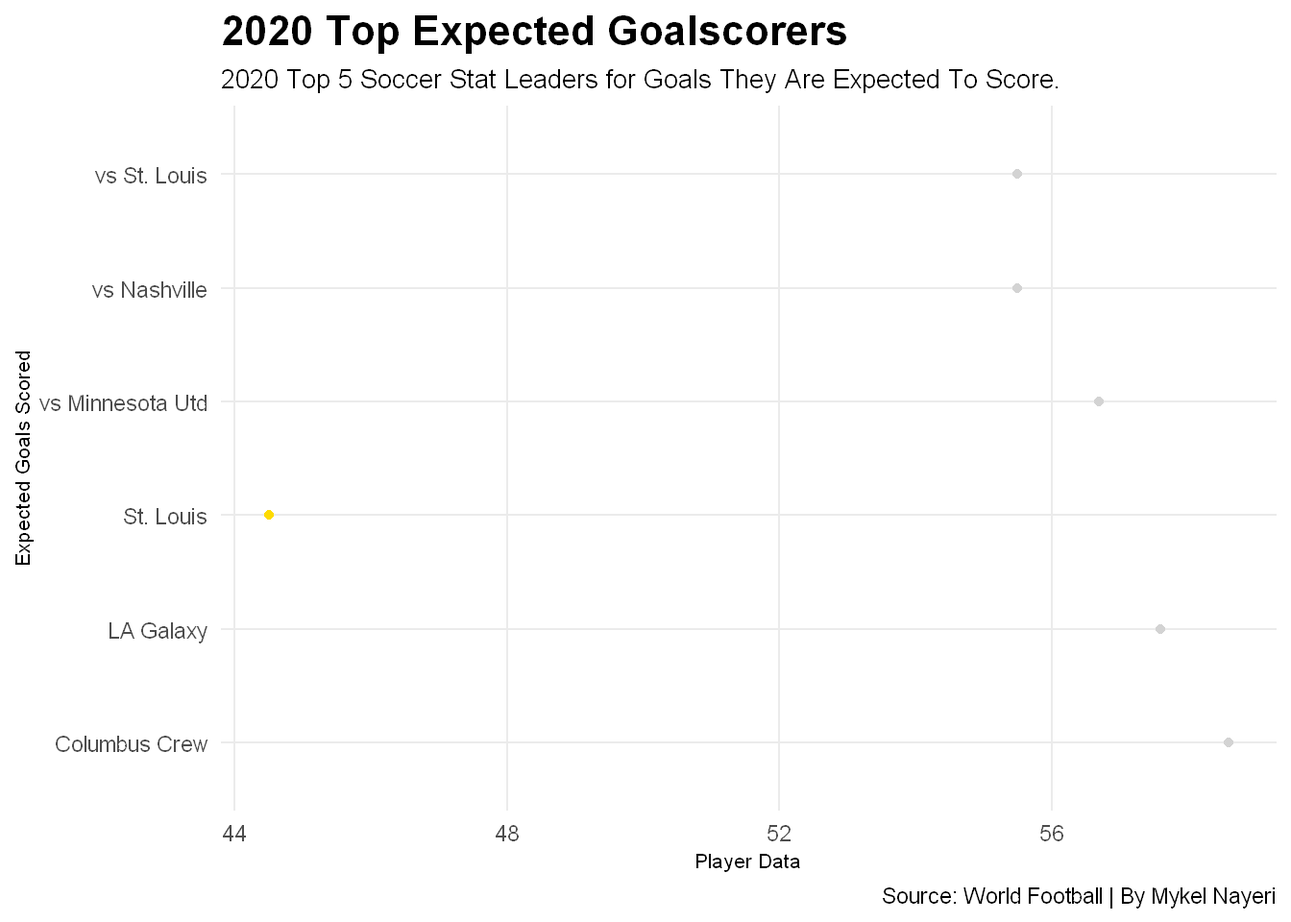
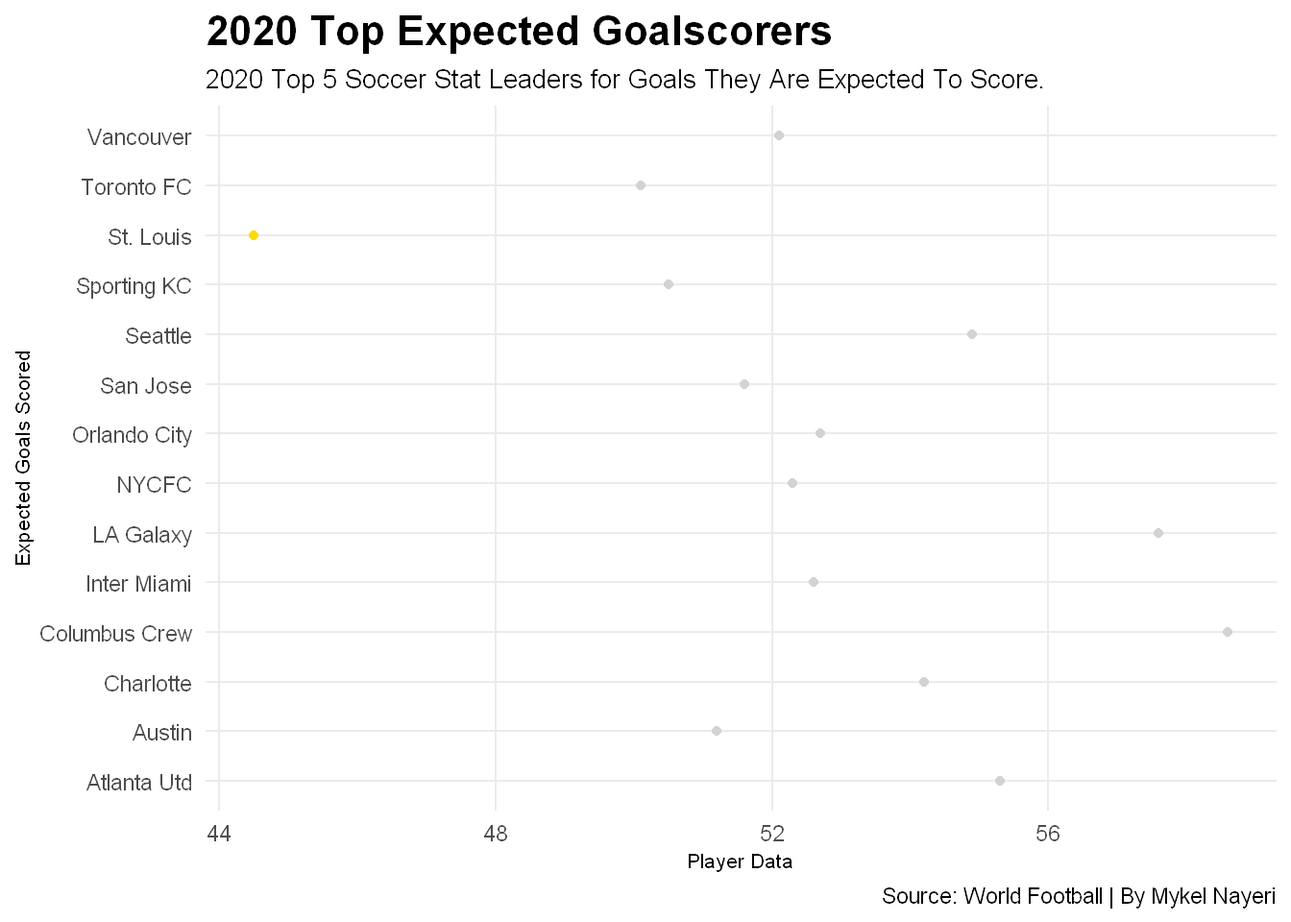
2.2

diff --git a/posts/is-st-louis-city-sc-the-best-expansion-franchise-ever/index.html b/posts/is-st-louis-city-sc-the-best-expansion-franchise-ever/index.html
@@ -209,68 +209,32 @@ code span.wa { color: #60a0b0; font-weight: bold; font-style: italic; } /* Warni
 <div class="cell">
 <details>
 <summary>Code</summary>
-<div class="sourceCode cell-code" id="cb1"><pre class="sourceCode r code-with-copy"><code class="sourceCode r"><span id="cb1-1"><a href="#cb1-1" aria-hidden="true" tabindex="-1"></a><span class="fu">library</span>(tidyverse)</span></code><button title="Copy to Clipboard" class="code-copy-button"><i class="bi"></i></button></pre></div>
-</details>
-<div class="cell-output cell-output-stderr">
-<pre><code>── Attaching packages ─────────────────────────────────────── tidyverse 1.3.2 ──
-✔ ggplot2 3.4.0      ✔ purrr   1.0.1 
-✔ tibble  3.1.8      ✔ dplyr   1.0.10
-✔ tidyr   1.2.1      ✔ stringr 1.5.0 
-✔ readr   2.1.3      ✔ forcats 0.5.2 
-── Conflicts ────────────────────────────────────────── tidyverse_conflicts() ──
-✖ dplyr::filter() masks stats::filter()
-✖ dplyr::lag()    masks stats::lag()</code></pre>
-</div>
-<details>
-<summary>Code</summary>
-<div class="sourceCode cell-code" id="cb3"><pre class="sourceCode r code-with-copy"><code class="sourceCode r"><span id="cb3-1"><a href="#cb3-1" aria-hidden="true" tabindex="-1"></a><span class="fu">library</span>(cowplot)</span>
-<span id="cb3-2"><a href="#cb3-2" aria-hidden="true" tabindex="-1"></a><span class="fu">library</span>(ggalt)</span></code><button title="Copy to Clipboard" class="code-copy-button"><i class="bi"></i></button></pre></div>
-</details>
-<div class="cell-output cell-output-stderr">
-<pre><code>Registered S3 methods overwritten by 'ggalt':
-  method                  from   
-  grid.draw.absoluteGrob  ggplot2
-  grobHeight.absoluteGrob ggplot2
-  grobWidth.absoluteGrob  ggplot2
-  grobX.absoluteGrob      ggplot2
-  grobY.absoluteGrob      ggplot2</code></pre>
-</div>
-<details>
-<summary>Code</summary>
-<div class="sourceCode cell-code" id="cb5"><pre class="sourceCode r code-with-copy"><code class="sourceCode r"><span id="cb5-1"><a href="#cb5-1" aria-hidden="true" tabindex="-1"></a><span class="fu">library</span>(ggtext)</span>
-<span id="cb5-2"><a href="#cb5-2" aria-hidden="true" tabindex="-1"></a><span class="fu">library</span>(ggbeeswarm)</span></code><button title="Copy to Clipboard" class="code-copy-button"><i class="bi"></i></button></pre></div>
-</details>
-<div class="cell-output cell-output-stderr">
-<pre><code>Warning: package 'ggbeeswarm' was built under R version 4.2.3</code></pre>
-</div>
-<details>
-<summary>Code</summary>
-<div class="sourceCode cell-code" id="cb7"><pre class="sourceCode r code-with-copy"><code class="sourceCode r"><span id="cb7-1"><a href="#cb7-1" aria-hidden="true" tabindex="-1"></a><span class="fu">library</span>(ggrepel)</span>
-<span id="cb7-2"><a href="#cb7-2" aria-hidden="true" tabindex="-1"></a><span class="fu">library</span>(worldfootballR)</span></code><button title="Copy to Clipboard" class="code-copy-button"><i class="bi"></i></button></pre></div>
-</details>
-<div class="cell-output cell-output-stderr">
-<pre><code>Warning: package 'worldfootballR' was built under R version 4.2.3</code></pre>
-</div>
-<details>
-<summary>Code</summary>
-<div class="sourceCode cell-code" id="cb9"><pre class="sourceCode r code-with-copy"><code class="sourceCode r"><span id="cb9-1"><a href="#cb9-1" aria-hidden="true" tabindex="-1"></a>mls_shooting <span class="ot">&lt;-</span> <span class="fu">fb_season_team_stats</span>(<span class="at">country =</span> <span class="st">"USA"</span>, <span class="at">gender =</span> <span class="st">"M"</span>, <span class="at">season_end_year =</span> <span class="st">"2023"</span>, <span class="at">tier =</span> <span class="st">"1st"</span>, <span class="at">stat_type =</span> <span class="st">"shooting"</span>)</span>
-<span id="cb9-2"><a href="#cb9-2" aria-hidden="true" tabindex="-1"></a>goals <span class="ot">&lt;-</span> mls_shooting <span class="sc">%&gt;%</span></span>
-<span id="cb9-3"><a href="#cb9-3" aria-hidden="true" tabindex="-1"></a>  <span class="fu">filter</span>(Gls_Standard <span class="sc">&gt;</span> <span class="dv">12</span>)</span>
-<span id="cb9-4"><a href="#cb9-4" aria-hidden="true" tabindex="-1"></a>  STL <span class="ot">&lt;-</span> mls_shooting <span class="sc">%&gt;%</span> <span class="fu">filter</span>(Squad <span class="sc">==</span> <span class="st">"St. Louis"</span>)</span>
-<span id="cb9-5"><a href="#cb9-5" aria-hidden="true" tabindex="-1"></a>  <span class="fu">ggplot</span>() <span class="sc">+</span></span>
-<span id="cb9-6"><a href="#cb9-6" aria-hidden="true" tabindex="-1"></a>  <span class="fu">geom_beeswarm</span>(<span class="at">data=</span>goals, <span class="fu">aes</span>(<span class="at">x=</span>Gls_Standard, <span class="at">y=</span>Squad), <span class="at">size =</span> <span class="dv">3</span>, <span class="at">color=</span><span class="st">"Black"</span>) <span class="sc">+</span></span>
-<span id="cb9-7"><a href="#cb9-7" aria-hidden="true" tabindex="-1"></a>  <span class="fu">geom_beeswarm</span>(<span class="at">data=</span>STL, <span class="fu">aes</span>(<span class="at">x=</span>Gls_Standard, <span class="at">y=</span>Squad), <span class="at">size =</span> <span class="dv">3</span>, <span class="at">color=</span><span class="st">"#E0004D"</span>) <span class="sc">+</span></span>
-<span id="cb9-8"><a href="#cb9-8" aria-hidden="true" tabindex="-1"></a>  <span class="fu">geom_text</span>(<span class="at">data=</span>STL, <span class="fu">aes</span>(<span class="at">x=</span><span class="dv">33</span>, <span class="at">y=</span><span class="fl">1.5</span>, <span class="at">label=</span>Gls_Standard)) <span class="sc">+</span></span>
-<span id="cb9-9"><a href="#cb9-9" aria-hidden="true" tabindex="-1"></a>  <span class="co">#geom_text(data=STL, aes(x=Gls_Standard, y=Squad, label=Squad)) +</span></span>
-<span id="cb9-10"><a href="#cb9-10" aria-hidden="true" tabindex="-1"></a>  <span class="co">#geom_encircle(data=STL, aes(x=Gls_Standard, y=Squad), s_shape=.1, expand=.01, colour="Purple")+  </span></span>
-<span id="cb9-11"><a href="#cb9-11" aria-hidden="true" tabindex="-1"></a>  <span class="fu">labs</span>(<span class="at">x=</span><span class="st">"Squad"</span>, <span class="at">y=</span><span class="st">"Goals Scored"</span>, <span class="at">title=</span><span class="st">"2020 Top Goalscorers"</span>, <span class="at">subtitle=</span><span class="st">"Top 5 Goalscorers During The COVID Season"</span>, <span class="at">caption=</span><span class="st">"Source: World Football | By Mykel Nayeri"</span>) <span class="sc">+</span> </span>
-<span id="cb9-12"><a href="#cb9-12" aria-hidden="true" tabindex="-1"></a>  <span class="fu">theme_minimal</span>() <span class="sc">+</span> </span>
-<span id="cb9-13"><a href="#cb9-13" aria-hidden="true" tabindex="-1"></a>  <span class="fu">theme</span>(</span>
-<span id="cb9-14"><a href="#cb9-14" aria-hidden="true" tabindex="-1"></a>    <span class="at">plot.title =</span> <span class="fu">element_text</span>(<span class="at">size =</span> <span class="dv">16</span>, <span class="at">face =</span> <span class="st">"bold"</span>),</span>
-<span id="cb9-15"><a href="#cb9-15" aria-hidden="true" tabindex="-1"></a>    <span class="at">axis.title =</span> <span class="fu">element_text</span>(<span class="at">size =</span> <span class="dv">8</span>), </span>
-<span id="cb9-16"><a href="#cb9-16" aria-hidden="true" tabindex="-1"></a>    <span class="at">plot.subtitle =</span> <span class="fu">element_text</span>(<span class="at">size=</span><span class="dv">10</span>), </span>
-<span id="cb9-17"><a href="#cb9-17" aria-hidden="true" tabindex="-1"></a>    <span class="at">panel.grid.minor =</span> <span class="fu">element_blank</span>()</span>
-<span id="cb9-18"><a href="#cb9-18" aria-hidden="true" tabindex="-1"></a>    )</span></code><button title="Copy to Clipboard" class="code-copy-button"><i class="bi"></i></button></pre></div>
+<div class="sourceCode cell-code" id="cb1"><pre class="sourceCode r code-with-copy"><code class="sourceCode r"><span id="cb1-1"><a href="#cb1-1" aria-hidden="true" tabindex="-1"></a><span class="fu">library</span>(tidyverse)</span>
+<span id="cb1-2"><a href="#cb1-2" aria-hidden="true" tabindex="-1"></a><span class="fu">library</span>(cowplot)</span>
+<span id="cb1-3"><a href="#cb1-3" aria-hidden="true" tabindex="-1"></a><span class="fu">library</span>(ggalt)</span>
+<span id="cb1-4"><a href="#cb1-4" aria-hidden="true" tabindex="-1"></a><span class="fu">library</span>(ggtext)</span>
+<span id="cb1-5"><a href="#cb1-5" aria-hidden="true" tabindex="-1"></a><span class="fu">library</span>(ggbeeswarm)</span>
+<span id="cb1-6"><a href="#cb1-6" aria-hidden="true" tabindex="-1"></a><span class="fu">library</span>(ggrepel)</span>
+<span id="cb1-7"><a href="#cb1-7" aria-hidden="true" tabindex="-1"></a><span class="fu">library</span>(worldfootballR)</span>
+<span id="cb1-8"><a href="#cb1-8" aria-hidden="true" tabindex="-1"></a>mls_shooting <span class="ot">&lt;-</span> <span class="fu">fb_season_team_stats</span>(<span class="at">country =</span> <span class="st">"USA"</span>, <span class="at">gender =</span> <span class="st">"M"</span>, <span class="at">season_end_year =</span> <span class="st">"2023"</span>, <span class="at">tier =</span> <span class="st">"1st"</span>, <span class="at">stat_type =</span> <span class="st">"shooting"</span>)</span>
+<span id="cb1-9"><a href="#cb1-9" aria-hidden="true" tabindex="-1"></a>goals <span class="ot">&lt;-</span> mls_shooting <span class="sc">%&gt;%</span></span>
+<span id="cb1-10"><a href="#cb1-10" aria-hidden="true" tabindex="-1"></a><span class="fu">filter</span>(Team_or_Opponent <span class="sc">==</span> <span class="st">"team"</span>, Gls_Standard <span class="sc">&gt;</span> <span class="dv">10</span>)</span>
+<span id="cb1-11"><a href="#cb1-11" aria-hidden="true" tabindex="-1"></a>  STL <span class="ot">&lt;-</span> mls_shooting <span class="sc">%&gt;%</span> <span class="fu">filter</span>(Squad <span class="sc">==</span> <span class="st">"St. Louis"</span>)</span>
+<span id="cb1-12"><a href="#cb1-12" aria-hidden="true" tabindex="-1"></a><span class="fu">ggplot</span>() <span class="sc">+</span> </span>
+<span id="cb1-13"><a href="#cb1-13" aria-hidden="true" tabindex="-1"></a>  <span class="fu">geom_lollipop</span>(<span class="at">data=</span>goals, <span class="fu">aes</span>(<span class="at">x=</span>Gls_Standard, <span class="at">y=</span>Squad), <span class="at">horizontal =</span> <span class="cn">TRUE</span>) <span class="sc">+</span></span>
+<span id="cb1-14"><a href="#cb1-14" aria-hidden="true" tabindex="-1"></a>  <span class="fu">geom_lollipop</span>(<span class="at">data=</span>STL, <span class="fu">aes</span>(<span class="at">x=</span>Gls_Standard, <span class="at">y=</span>Squad), <span class="at">horizontal =</span> <span class="cn">TRUE</span>,</span>
+<span id="cb1-15"><a href="#cb1-15" aria-hidden="true" tabindex="-1"></a>  <span class="at">size =</span> <span class="dv">1</span>, <span class="at">color=</span><span class="st">"#E0004D"</span>)<span class="sc">+</span></span>
+<span id="cb1-16"><a href="#cb1-16" aria-hidden="true" tabindex="-1"></a>  <span class="fu">geom_text</span>(<span class="at">data=</span>STL, <span class="fu">aes</span>(<span class="at">x=</span><span class="dv">33</span>, <span class="at">y=</span><span class="fl">1.5</span>, <span class="at">label=</span><span class="st">"hello"</span>)) <span class="sc">+</span></span>
+<span id="cb1-17"><a href="#cb1-17" aria-hidden="true" tabindex="-1"></a>  <span class="co">#geom_text(data=STL, aes(x=Gls_Standard, y=Squad, label=Squad)) +</span></span>
+<span id="cb1-18"><a href="#cb1-18" aria-hidden="true" tabindex="-1"></a>  <span class="co">#geom_encircle(data=STL, aes(x=Gls_Standard, y=Squad), s_shape=.1, expand=.01, colour="Purple")+  </span></span>
+<span id="cb1-19"><a href="#cb1-19" aria-hidden="true" tabindex="-1"></a>  <span class="fu">labs</span>(<span class="at">x=</span><span class="st">"Squad"</span>, <span class="at">y=</span><span class="st">"Goals Scored"</span>, <span class="at">title=</span><span class="st">"2020 Top Goalscorers"</span>, <span class="at">subtitle=</span><span class="st">"Top 5 Goalscorers During The COVID Season"</span>, <span class="at">caption=</span><span class="st">"Source: World Football | By Mykel Nayeri"</span>) <span class="sc">+</span> </span>
+<span id="cb1-20"><a href="#cb1-20" aria-hidden="true" tabindex="-1"></a>  <span class="fu">theme_minimal</span>() <span class="sc">+</span> </span>
+<span id="cb1-21"><a href="#cb1-21" aria-hidden="true" tabindex="-1"></a>  <span class="fu">theme</span>(</span>
+<span id="cb1-22"><a href="#cb1-22" aria-hidden="true" tabindex="-1"></a>    <span class="at">plot.title =</span> <span class="fu">element_text</span>(<span class="at">size =</span> <span class="dv">16</span>, <span class="at">face =</span> <span class="st">"bold"</span>),</span>
+<span id="cb1-23"><a href="#cb1-23" aria-hidden="true" tabindex="-1"></a>    <span class="at">axis.title =</span> <span class="fu">element_text</span>(<span class="at">size =</span> <span class="dv">8</span>), </span>
+<span id="cb1-24"><a href="#cb1-24" aria-hidden="true" tabindex="-1"></a>    <span class="at">plot.subtitle =</span> <span class="fu">element_text</span>(<span class="at">size=</span><span class="dv">10</span>), </span>
+<span id="cb1-25"><a href="#cb1-25" aria-hidden="true" tabindex="-1"></a>    <span class="at">panel.grid.minor =</span> <span class="fu">element_blank</span>()</span>
+<span id="cb1-26"><a href="#cb1-26" aria-hidden="true" tabindex="-1"></a>    )</span></code><button title="Copy to Clipboard" class="code-copy-button"><i class="bi"></i></button></pre></div>
 </details>
 <div class="cell-output-display">
 <p><img src="index_files/figure-html/unnamed-chunk-1-1.png" class="img-fluid" width="672"></p>
@@ -279,22 +243,22 @@ code span.wa { color: #60a0b0; font-weight: bold; font-style: italic; } /* Warni
 <div class="cell">
 <details>
 <summary>Code</summary>
-<div class="sourceCode cell-code" id="cb10"><pre class="sourceCode r code-with-copy"><code class="sourceCode r"><span id="cb10-1"><a href="#cb10-1" aria-hidden="true" tabindex="-1"></a>mls_possession <span class="ot">&lt;-</span> <span class="fu">fb_season_team_stats</span>(<span class="at">country =</span> <span class="st">"USA"</span>, <span class="at">gender =</span> <span class="st">"M"</span>, <span class="at">season_end_year =</span> <span class="st">"2023"</span>, <span class="at">tier =</span> <span class="st">"1st"</span>, <span class="at">stat_type =</span> <span class="st">"possession"</span>)</span>
-<span id="cb10-2"><a href="#cb10-2" aria-hidden="true" tabindex="-1"></a>possession <span class="ot">&lt;-</span> mls_possession <span class="sc">%&gt;%</span></span>
-<span id="cb10-3"><a href="#cb10-3" aria-hidden="true" tabindex="-1"></a>  <span class="fu">filter</span>(Poss <span class="sc">&gt;</span> <span class="fl">55.3</span>)</span>
-<span id="cb10-4"><a href="#cb10-4" aria-hidden="true" tabindex="-1"></a>  STL2 <span class="ot">&lt;-</span> mls_possession <span class="sc">%&gt;%</span> <span class="fu">filter</span>(Squad <span class="sc">==</span> <span class="st">"St. Louis"</span>)</span>
-<span id="cb10-5"><a href="#cb10-5" aria-hidden="true" tabindex="-1"></a><span class="fu">ggplot</span>() <span class="sc">+</span></span>
-<span id="cb10-6"><a href="#cb10-6" aria-hidden="true" tabindex="-1"></a>  <span class="fu">geom_point</span>(<span class="at">data=</span>possession, <span class="fu">aes</span>(<span class="at">x=</span>Poss, <span class="at">y=</span>Squad), <span class="at">color=</span><span class="st">"light grey"</span>) <span class="sc">+</span></span>
-<span id="cb10-7"><a href="#cb10-7" aria-hidden="true" tabindex="-1"></a>  <span class="fu">geom_point</span>(<span class="at">data=</span>possession, <span class="fu">aes</span>(<span class="at">x=</span>Poss, <span class="at">y=</span>Squad), <span class="at">color=</span><span class="st">"light grey"</span>)<span class="sc">+</span></span>
-<span id="cb10-8"><a href="#cb10-8" aria-hidden="true" tabindex="-1"></a>  <span class="fu">geom_point</span>(<span class="at">data=</span>STL2, <span class="fu">aes</span>(<span class="at">x=</span>Poss, <span class="at">y=</span>Squad), <span class="at">color=</span><span class="st">"#FEDB00"</span>) <span class="sc">+</span></span>
-<span id="cb10-9"><a href="#cb10-9" aria-hidden="true" tabindex="-1"></a>  <span class="fu">labs</span>(<span class="at">x=</span><span class="st">"Player Data"</span>, <span class="at">y=</span><span class="st">"Expected Goals Scored"</span>, <span class="at">title=</span><span class="st">"2020 Top Expected Goalscorers"</span>, <span class="at">subtitle=</span><span class="st">"2020 Top 5 Soccer Stat Leaders for Goals They Are Expected To Score."</span>, <span class="at">caption=</span><span class="st">"Source: World Football | By Mykel Nayeri"</span>) <span class="sc">+</span> </span>
-<span id="cb10-10"><a href="#cb10-10" aria-hidden="true" tabindex="-1"></a>  <span class="fu">theme_minimal</span>() <span class="sc">+</span> </span>
-<span id="cb10-11"><a href="#cb10-11" aria-hidden="true" tabindex="-1"></a>  <span class="fu">theme</span>(</span>
-<span id="cb10-12"><a href="#cb10-12" aria-hidden="true" tabindex="-1"></a>    <span class="at">plot.title =</span> <span class="fu">element_text</span>(<span class="at">size =</span> <span class="dv">16</span>, <span class="at">face =</span> <span class="st">"bold"</span>),</span>
-<span id="cb10-13"><a href="#cb10-13" aria-hidden="true" tabindex="-1"></a>    <span class="at">axis.title =</span> <span class="fu">element_text</span>(<span class="at">size =</span> <span class="dv">8</span>), </span>
-<span id="cb10-14"><a href="#cb10-14" aria-hidden="true" tabindex="-1"></a>    <span class="at">plot.subtitle =</span> <span class="fu">element_text</span>(<span class="at">size=</span><span class="dv">10</span>), </span>
-<span id="cb10-15"><a href="#cb10-15" aria-hidden="true" tabindex="-1"></a>    <span class="at">panel.grid.minor =</span> <span class="fu">element_blank</span>()</span>
-<span id="cb10-16"><a href="#cb10-16" aria-hidden="true" tabindex="-1"></a>    )</span></code><button title="Copy to Clipboard" class="code-copy-button"><i class="bi"></i></button></pre></div>
+<div class="sourceCode cell-code" id="cb2"><pre class="sourceCode r code-with-copy"><code class="sourceCode r"><span id="cb2-1"><a href="#cb2-1" aria-hidden="true" tabindex="-1"></a>mls_possession <span class="ot">&lt;-</span> <span class="fu">fb_season_team_stats</span>(<span class="at">country =</span> <span class="st">"USA"</span>, <span class="at">gender =</span> <span class="st">"M"</span>, <span class="at">season_end_year =</span> <span class="st">"2023"</span>, <span class="at">tier =</span> <span class="st">"1st"</span>, <span class="at">stat_type =</span> <span class="st">"possession"</span>)</span>
+<span id="cb2-2"><a href="#cb2-2" aria-hidden="true" tabindex="-1"></a>possession <span class="ot">&lt;-</span> mls_possession <span class="sc">%&gt;%</span></span>
+<span id="cb2-3"><a href="#cb2-3" aria-hidden="true" tabindex="-1"></a>  <span class="fu">filter</span>(Team_or_Opponent <span class="sc">==</span> <span class="st">"team"</span>, Poss <span class="sc">&gt;</span> <span class="dv">50</span>)</span>
+<span id="cb2-4"><a href="#cb2-4" aria-hidden="true" tabindex="-1"></a>  STL2 <span class="ot">&lt;-</span> mls_possession <span class="sc">%&gt;%</span> <span class="fu">filter</span>(Squad <span class="sc">==</span> <span class="st">"St. Louis"</span>)</span>
+<span id="cb2-5"><a href="#cb2-5" aria-hidden="true" tabindex="-1"></a><span class="fu">ggplot</span>() <span class="sc">+</span></span>
+<span id="cb2-6"><a href="#cb2-6" aria-hidden="true" tabindex="-1"></a>  <span class="fu">geom_point</span>(<span class="at">data=</span>possession, <span class="fu">aes</span>(<span class="at">x=</span>Poss, <span class="at">y=</span>Squad), <span class="at">color=</span><span class="st">"light grey"</span>) <span class="sc">+</span></span>
+<span id="cb2-7"><a href="#cb2-7" aria-hidden="true" tabindex="-1"></a>  <span class="fu">geom_point</span>(<span class="at">data=</span>possession, <span class="fu">aes</span>(<span class="at">x=</span>Poss, <span class="at">y=</span>Squad), <span class="at">color=</span><span class="st">"light grey"</span>)<span class="sc">+</span></span>
+<span id="cb2-8"><a href="#cb2-8" aria-hidden="true" tabindex="-1"></a>  <span class="fu">geom_point</span>(<span class="at">data=</span>STL2, <span class="fu">aes</span>(<span class="at">x=</span>Poss, <span class="at">y=</span>Squad), <span class="at">color=</span><span class="st">"#FEDB00"</span>) <span class="sc">+</span></span>
+<span id="cb2-9"><a href="#cb2-9" aria-hidden="true" tabindex="-1"></a>  <span class="fu">labs</span>(<span class="at">x=</span><span class="st">"Player Data"</span>, <span class="at">y=</span><span class="st">"Expected Goals Scored"</span>, <span class="at">title=</span><span class="st">"2020 Top Expected Goalscorers"</span>, <span class="at">subtitle=</span><span class="st">"2020 Top 5 Soccer Stat Leaders for Goals They Are Expected To Score."</span>, <span class="at">caption=</span><span class="st">"Source: World Football | By Mykel Nayeri"</span>) <span class="sc">+</span> </span>
+<span id="cb2-10"><a href="#cb2-10" aria-hidden="true" tabindex="-1"></a>  <span class="fu">theme_minimal</span>() <span class="sc">+</span> </span>
+<span id="cb2-11"><a href="#cb2-11" aria-hidden="true" tabindex="-1"></a>  <span class="fu">theme</span>(</span>
+<span id="cb2-12"><a href="#cb2-12" aria-hidden="true" tabindex="-1"></a>    <span class="at">plot.title =</span> <span class="fu">element_text</span>(<span class="at">size =</span> <span class="dv">16</span>, <span class="at">face =</span> <span class="st">"bold"</span>),</span>
+<span id="cb2-13"><a href="#cb2-13" aria-hidden="true" tabindex="-1"></a>    <span class="at">axis.title =</span> <span class="fu">element_text</span>(<span class="at">size =</span> <span class="dv">8</span>), </span>
+<span id="cb2-14"><a href="#cb2-14" aria-hidden="true" tabindex="-1"></a>    <span class="at">plot.subtitle =</span> <span class="fu">element_text</span>(<span class="at">size=</span><span class="dv">10</span>), </span>
+<span id="cb2-15"><a href="#cb2-15" aria-hidden="true" tabindex="-1"></a>    <span class="at">panel.grid.minor =</span> <span class="fu">element_blank</span>()</span>
+<span id="cb2-16"><a href="#cb2-16" aria-hidden="true" tabindex="-1"></a>    )</span></code><button title="Copy to Clipboard" class="code-copy-button"><i class="bi"></i></button></pre></div>
 </details>
 <div class="cell-output-display">
 <p><img src="index_files/figure-html/unnamed-chunk-2-1.png" class="img-fluid" width="672"></p>
@@ -303,24 +267,24 @@ code span.wa { color: #60a0b0; font-weight: bold; font-style: italic; } /* Warni
 <div class="cell">
 <details>
 <summary>Code</summary>
-<div class="sourceCode cell-code" id="cb11"><pre class="sourceCode r code-with-copy"><code class="sourceCode r"><span id="cb11-1"><a href="#cb11-1" aria-hidden="true" tabindex="-1"></a>mls_defense <span class="ot">&lt;-</span> <span class="fu">fb_season_team_stats</span>(<span class="at">country =</span> <span class="st">"USA"</span>, <span class="at">gender =</span> <span class="st">"M"</span>, <span class="at">season_end_year =</span> <span class="st">"2023"</span>, <span class="at">tier =</span> <span class="st">"1st"</span>, <span class="at">stat_type =</span> <span class="st">"defense"</span>)</span>
-<span id="cb11-2"><a href="#cb11-2" aria-hidden="true" tabindex="-1"></a>defense <span class="ot">&lt;-</span> mls_defense <span class="sc">%&gt;%</span></span>
-<span id="cb11-3"><a href="#cb11-3" aria-hidden="true" tabindex="-1"></a>  <span class="fu">filter</span>(Int <span class="sc">&gt;</span> <span class="dv">100</span>)</span>
-<span id="cb11-4"><a href="#cb11-4" aria-hidden="true" tabindex="-1"></a>  STL3 <span class="ot">&lt;-</span> mls_defense <span class="sc">%&gt;%</span> <span class="fu">filter</span>(Squad <span class="sc">==</span> <span class="st">"St. Louis"</span>)</span>
-<span id="cb11-5"><a href="#cb11-5" aria-hidden="true" tabindex="-1"></a><span class="fu">ggplot</span>() <span class="sc">+</span> </span>
-<span id="cb11-6"><a href="#cb11-6" aria-hidden="true" tabindex="-1"></a>  <span class="fu">geom_bar</span>(<span class="at">data=</span>defense, <span class="fu">aes</span>(<span class="at">x=</span><span class="fu">reorder</span>(Squad, Int), <span class="at">weight=</span>Int)) <span class="sc">+</span> </span>
-<span id="cb11-7"><a href="#cb11-7" aria-hidden="true" tabindex="-1"></a>  <span class="fu">geom_bar</span>(<span class="at">data=</span>defense, <span class="fu">aes</span>(<span class="at">x=</span><span class="fu">reorder</span>(Squad, Int), <span class="at">weight=</span>Int),<span class="at">fill=</span><span class="st">"light grey"</span>) <span class="sc">+</span> </span>
-<span id="cb11-8"><a href="#cb11-8" aria-hidden="true" tabindex="-1"></a>  <span class="fu">geom_bar</span>(<span class="at">data=</span>STL3, <span class="fu">aes</span>(<span class="at">x=</span><span class="fu">reorder</span>(Squad, Int), <span class="at">weight=</span>Int),<span class="at">fill=</span><span class="st">"#0C2340"</span>) <span class="sc">+</span> </span>
-<span id="cb11-9"><a href="#cb11-9" aria-hidden="true" tabindex="-1"></a>  <span class="fu">scale_fill_manual</span>(<span class="at">values =</span> <span class="st">"#0C2340"</span>) <span class="sc">+</span></span>
-<span id="cb11-10"><a href="#cb11-10" aria-hidden="true" tabindex="-1"></a>  <span class="fu">coord_flip</span>()<span class="sc">+</span> </span>
-<span id="cb11-11"><a href="#cb11-11" aria-hidden="true" tabindex="-1"></a>  <span class="fu">labs</span>(<span class="at">x=</span><span class="st">"Player"</span>, <span class="at">y=</span><span class="st">"Interceptions"</span>, <span class="at">title=</span><span class="st">"Carrying The Ball In The Final Third"</span>, <span class="at">subtitle=</span><span class="st">"Top 5 Final Third Carries In 2020"</span>, <span class="at">caption=</span><span class="st">"Source: World Football | By Mykel Nayeri"</span>) <span class="sc">+</span> </span>
-<span id="cb11-12"><a href="#cb11-12" aria-hidden="true" tabindex="-1"></a>  <span class="fu">theme_minimal</span>() <span class="sc">+</span> </span>
-<span id="cb11-13"><a href="#cb11-13" aria-hidden="true" tabindex="-1"></a>  <span class="fu">theme</span>(</span>
-<span id="cb11-14"><a href="#cb11-14" aria-hidden="true" tabindex="-1"></a>    <span class="at">plot.title =</span> <span class="fu">element_text</span>(<span class="at">size =</span> <span class="dv">16</span>, <span class="at">face =</span> <span class="st">"bold"</span>),</span>
-<span id="cb11-15"><a href="#cb11-15" aria-hidden="true" tabindex="-1"></a>    <span class="at">axis.title =</span> <span class="fu">element_text</span>(<span class="at">size =</span> <span class="dv">8</span>), </span>
-<span id="cb11-16"><a href="#cb11-16" aria-hidden="true" tabindex="-1"></a>    <span class="at">plot.subtitle =</span> <span class="fu">element_text</span>(<span class="at">size=</span><span class="dv">10</span>), </span>
-<span id="cb11-17"><a href="#cb11-17" aria-hidden="true" tabindex="-1"></a>    <span class="at">panel.grid.minor =</span> <span class="fu">element_blank</span>()</span>
-<span id="cb11-18"><a href="#cb11-18" aria-hidden="true" tabindex="-1"></a>)</span></code><button title="Copy to Clipboard" class="code-copy-button"><i class="bi"></i></button></pre></div>
+<div class="sourceCode cell-code" id="cb3"><pre class="sourceCode r code-with-copy"><code class="sourceCode r"><span id="cb3-1"><a href="#cb3-1" aria-hidden="true" tabindex="-1"></a>mls_defense <span class="ot">&lt;-</span> <span class="fu">fb_season_team_stats</span>(<span class="at">country =</span> <span class="st">"USA"</span>, <span class="at">gender =</span> <span class="st">"M"</span>, <span class="at">season_end_year =</span> <span class="st">"2023"</span>, <span class="at">tier =</span> <span class="st">"1st"</span>, <span class="at">stat_type =</span> <span class="st">"defense"</span>)</span>
+<span id="cb3-2"><a href="#cb3-2" aria-hidden="true" tabindex="-1"></a>defense <span class="ot">&lt;-</span> mls_defense <span class="sc">%&gt;%</span></span>
+<span id="cb3-3"><a href="#cb3-3" aria-hidden="true" tabindex="-1"></a>  <span class="fu">filter</span>(Team_or_Opponent <span class="sc">==</span> <span class="st">"team"</span>, Int <span class="sc">&gt;</span> <span class="dv">100</span>)</span>
+<span id="cb3-4"><a href="#cb3-4" aria-hidden="true" tabindex="-1"></a>  STL3 <span class="ot">&lt;-</span> mls_defense <span class="sc">%&gt;%</span> <span class="fu">filter</span>(Squad <span class="sc">==</span> <span class="st">"St. Louis"</span>)</span>
+<span id="cb3-5"><a href="#cb3-5" aria-hidden="true" tabindex="-1"></a><span class="fu">ggplot</span>() <span class="sc">+</span> </span>
+<span id="cb3-6"><a href="#cb3-6" aria-hidden="true" tabindex="-1"></a>  <span class="fu">geom_bar</span>(<span class="at">data=</span>defense, <span class="fu">aes</span>(<span class="at">x=</span><span class="fu">reorder</span>(Squad, Int), <span class="at">weight=</span>Int)) <span class="sc">+</span> </span>
+<span id="cb3-7"><a href="#cb3-7" aria-hidden="true" tabindex="-1"></a>  <span class="fu">geom_bar</span>(<span class="at">data=</span>defense, <span class="fu">aes</span>(<span class="at">x=</span><span class="fu">reorder</span>(Squad, Int), <span class="at">weight=</span>Int),<span class="at">fill=</span><span class="st">"light grey"</span>) <span class="sc">+</span> </span>
+<span id="cb3-8"><a href="#cb3-8" aria-hidden="true" tabindex="-1"></a>  <span class="fu">geom_bar</span>(<span class="at">data=</span>STL3, <span class="fu">aes</span>(<span class="at">x=</span><span class="fu">reorder</span>(Squad, Int), <span class="at">weight=</span>Int),<span class="at">fill=</span><span class="st">"#0C2340"</span>) <span class="sc">+</span> </span>
+<span id="cb3-9"><a href="#cb3-9" aria-hidden="true" tabindex="-1"></a>  <span class="fu">scale_fill_manual</span>(<span class="at">values =</span> <span class="st">"#0C2340"</span>) <span class="sc">+</span></span>
+<span id="cb3-10"><a href="#cb3-10" aria-hidden="true" tabindex="-1"></a>  <span class="fu">coord_flip</span>()<span class="sc">+</span> </span>
+<span id="cb3-11"><a href="#cb3-11" aria-hidden="true" tabindex="-1"></a>  <span class="fu">labs</span>(<span class="at">x=</span><span class="st">"Player"</span>, <span class="at">y=</span><span class="st">"Interceptions"</span>, <span class="at">title=</span><span class="st">"Carrying The Ball In The Final Third"</span>, <span class="at">subtitle=</span><span class="st">"Top 5 Final Third Carries In 2020"</span>, <span class="at">caption=</span><span class="st">"Source: World Football | By Mykel Nayeri"</span>) <span class="sc">+</span> </span>
+<span id="cb3-12"><a href="#cb3-12" aria-hidden="true" tabindex="-1"></a>  <span class="fu">theme_minimal</span>() <span class="sc">+</span> </span>
+<span id="cb3-13"><a href="#cb3-13" aria-hidden="true" tabindex="-1"></a>  <span class="fu">theme</span>(</span>
+<span id="cb3-14"><a href="#cb3-14" aria-hidden="true" tabindex="-1"></a>    <span class="at">plot.title =</span> <span class="fu">element_text</span>(<span class="at">size =</span> <span class="dv">16</span>, <span class="at">face =</span> <span class="st">"bold"</span>),</span>
+<span id="cb3-15"><a href="#cb3-15" aria-hidden="true" tabindex="-1"></a>    <span class="at">axis.title =</span> <span class="fu">element_text</span>(<span class="at">size =</span> <span class="dv">8</span>), </span>
+<span id="cb3-16"><a href="#cb3-16" aria-hidden="true" tabindex="-1"></a>    <span class="at">plot.subtitle =</span> <span class="fu">element_text</span>(<span class="at">size=</span><span class="dv">10</span>), </span>
+<span id="cb3-17"><a href="#cb3-17" aria-hidden="true" tabindex="-1"></a>    <span class="at">panel.grid.minor =</span> <span class="fu">element_blank</span>()</span>
+<span id="cb3-18"><a href="#cb3-18" aria-hidden="true" tabindex="-1"></a>)</span></code><button title="Copy to Clipboard" class="code-copy-button"><i class="bi"></i></button></pre></div>
 </details>
 <div class="cell-output-display">
 <p><img src="index_files/figure-html/unnamed-chunk-3-1.png" class="img-fluid" width="672"></p>

diff --git a/index.html b/index.html
@@ -166,7 +166,7 @@ ul.task-list li input[type="checkbox"] {
 
 <div class="quarto-listing quarto-listing-container-default" id="listing-listing">
 <div class="list quarto-listing-default">
-<div class="quarto-post image-right" data-index="0" data-categories="Project 2" data-listing-date-sort="1720069200000" data-listing-file-modified-sort="1683134240333" data-listing-reading-time-sort="1.985">
+<div class="quarto-post image-right" data-index="0" data-categories="Project 2" data-listing-date-sort="1720069200000" data-listing-file-modified-sort="1683137276545" data-listing-reading-time-sort="2.055">
 <div class="thumbnail">
 <p><a href="./posts/is-st-louis-city-sc-the-best-expansion-franchise-ever/index.html"> <img src="./posts/is-st-louis-city-sc-the-best-expansion-franchise-ever/image.png" class="thumnail-image"> </a></p>
 </div>
